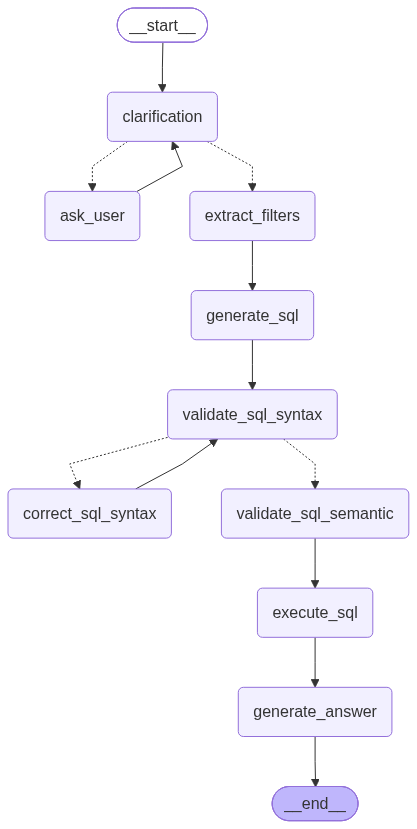
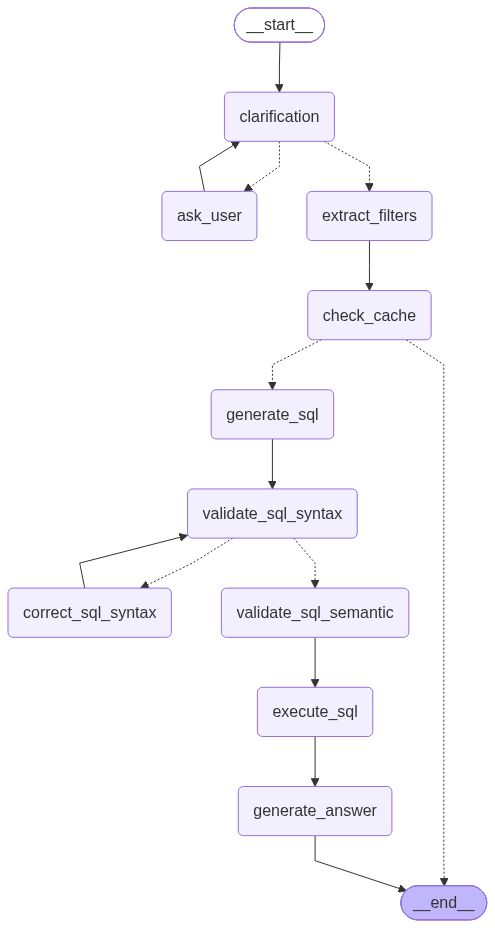
Semantic caching tested

diff --git a/app/main.py b/app/main.py
@@ -1,13 +1,11 @@
 from fastapi import FastAPI, HTTPException
 from pydantic import BaseModel
 from app.graph import graph_view as graph, pool
-from langchain_core.messages import HumanMessage, AIMessage
+from langchain_core.messages import HumanMessage
 from langgraph.types import Command
-from app.services.redis_service import check_semantic_cache, store_semantic_cache
+from app.services.redis_service import store_semantic_cache
 from app.structured_ouput import QueryFilters
 
-
-# schema = get_metadata()
 
 app = FastAPI(
     title="Text-to-SQL API",
@@ -32,14 +30,9 @@ class QueryRequest(BaseModel):
     conversation_id: str
 
 
-
-
 @app.get("/")
 def root():
-    return {
-        "message": "Text-to-SQL API is running"
-    }
-    
+    return {"message": "Text-to-SQL API is running"}
 
 
 def format_graph_output(result, conversation_id: str):
@@ -70,22 +63,23 @@ def format_graph_output(result, conversation_id: str):
     output = dict(result_dict)
     output["conversation_id"] = conversation_id
     output["requires_clarification"] = False
-    return output['answer'] if 'answer' in output else 'No answer generated'
-
+    return output["answer"] if "answer" in output else "No answer generated"
 
 
 @app.post("/query")
 def query_database(request: QueryRequest):
     config = {
-        'configurable': {
-            'thread_id': request.conversation_id
+        "configurable": {
+            "thread_id": request.conversation_id
         }
     }
-    
+
     snapshot = graph.get_state(config)
-    tasks = getattr(snapshot, 'tasks', [])
-    has_interrupt = any(bool(task.interrupts) for task in tasks) or bool(getattr(snapshot, 'interrupts', False))
-    
+    tasks = getattr(snapshot, "tasks", [])
+    has_interrupt = any(bool(task.interrupts) for task in tasks) or bool(
+        getattr(snapshot, "interrupts", False)
+    )
+
     if has_interrupt:
         # ------------------------------------------------------------------ #
         # Resuming after a clarification interrupt                            #
@@ -96,7 +90,7 @@ def query_database(request: QueryRequest):
         else:
             raise HTTPException(
                 status_code=422,
-                detail="Clarification answer required to resume the query."
+                detail="Clarification answer required to resume the query.",
             )
     else:
         # ------------------------------------------------------------------ #
@@ -105,28 +99,14 @@ def query_database(request: QueryRequest):
         if request.clarification_answer:
             raise HTTPException(
                 status_code=409,
-                detail="No pending clarification to resume."
+                detail="No pending clarification to resume.",
             )
         if not request.question:
             raise HTTPException(
                 status_code=400,
-                detail="Question is required for a new query."
+                detail="Question is required for a new query.",
             )
 
-        # --- Semantic cache check (pre-graph) ---
-        # Use the raw question with empty filters for the initial lookup.
-        # The extract_filters node will produce the precise filters later;
-        # here we rely purely on vector similarity + empty-filter match so
-        # only previously-cached identical-intent AND identical-value queries
-        # are served from cache.
-        raw_filters = QueryFilters(resolved_prompt=request.question)
-        cached_answer = check_semantic_cache(request.question, raw_filters)
-
-        if cached_answer:
-            print("[Cache HIT] Returning cached answer without running graph.")
-            return format_graph_output({"answer": cached_answer}, request.conversation_id)
-
-        print("[Cache MISS] Running full graph pipeline.")
         initial_state = {
             "question": request.question,
             "messages": [HumanMessage(content=request.question)],
@@ -145,20 +125,21 @@ def query_database(request: QueryRequest):
             "sql_execution_error": None,
             "answer": "",
             "query_filters": None,
+            "cache_hit": False,
         }
         result = graph.invoke(initial_state, config=config)
 
     # ---------------------------------------------------------------------- #
-    # Store in semantic cache (both fresh and resumed paths land here)        #
+    # Store in semantic cache — only when the graph ran SQL generation        #
+    # (cache_hit=False means a fresh answer was produced, not served from     #
+    # cache). Also skip if graph was interrupted waiting for clarification.   #
     # ---------------------------------------------------------------------- #
     if isinstance(result, dict):
         answer = result.get("answer", "")
         qf: QueryFilters | None = result.get("query_filters")
+        cache_hit: bool = result.get("cache_hit", False)
 
-        # Only cache when we have a real answer and extracted filters.
-        # If the graph was interrupted (clarification pending) qf will be None
-        # and we skip caching until the final answer is produced.
-        if answer and qf:
+        if answer and qf and not cache_hit:
             store_semantic_cache(
                 resolved_prompt=qf.resolved_prompt,
                 answer=answer,
@@ -166,5 +147,6 @@ def query_database(request: QueryRequest):
             )
 
     return format_graph_output(result, request.conversation_id)
+
 
 

diff --git a/app/graph.py b/app/graph.py
@@ -9,6 +9,7 @@ from app.nodes.ask_user_node import ask_user
 from app.nodes.correct_sql_syntax_node import correct_sql_syntax
 from app.nodes.validate_sql_semantic_node import validate_sql_semantic
 from app.nodes.extract_filters_node import extract_query_filters
+from app.nodes.check_cache_node import check_cache_node
 from langgraph.checkpoint.postgres import PostgresSaver
 from psycopg_pool import ConnectionPool
 import os
@@ -25,8 +26,9 @@ graph = StateGraph(state)
 
 graph.add_node("clarification", clarification_node)
 graph.add_node("ask_user", ask_user)
-graph.add_node("extract_filters", extract_query_filters)   # ← NEW
-graph.add_node('generate_answer',generate_answer )
+graph.add_node("extract_filters", extract_query_filters)
+graph.add_node("check_cache", check_cache_node)           # ← NEW
+graph.add_node('generate_answer', generate_answer)
 graph.add_node('generate_sql', generate_sql)
 graph.add_node('validate_sql_syntax', validate_sql_syntax)
 graph.add_node('correct_sql_syntax', correct_sql_syntax)
@@ -37,16 +39,26 @@ graph.add_node('execute_sql', execute_sql)
 graph.add_edge(START, 'clarification')
 graph.add_conditional_edges(
     "clarification",
-    lambda x : "extract_filters" if x.is_clear == True or x.ask_user_count >= 3 else "ask_user",
+    lambda x: "extract_filters" if x.is_clear == True or x.ask_user_count >= 3 else "ask_user",
     {
         "ask_user": "ask_user",
-        "extract_filters": "extract_filters",   # ← was "generate_sql"
+        "extract_filters": "extract_filters",
     }
 )
 graph.add_edge("ask_user", "clarification")
 
-# extract_filters feeds straight into generate_sql
-graph.add_edge("extract_filters", "generate_sql")   # ← NEW
+# extract_filters → check_cache
+graph.add_edge("extract_filters", "check_cache")
+
+# check_cache → END (hit) or generate_sql (miss)
+graph.add_conditional_edges(
+    "check_cache",
+    lambda x: END if x.cache_hit else "generate_sql",
+    {
+        END: END,
+        "generate_sql": "generate_sql",
+    }
+)
 
 graph.add_edge('generate_sql', 'validate_sql_syntax')
 graph.add_conditional_edges(
@@ -75,9 +87,9 @@ checkpointer.setup()
 
 graph_view = graph.compile(checkpointer=checkpointer)
 
-png_data = graph_view.get_graph().draw_mermaid_png()
+# png_data = graph_view.get_graph().draw_mermaid_png()
 
 
-with open("graph.png", "wb") as f:
-    f.write(png_data)
+# with open("graph.png", "wb") as f:
+#     f.write(png_data)
     

diff --git a/app/nodes/check_cache_node.py b/app/nodes/check_cache_node.py
@@ -1,0 +1,36 @@
+from app.state import state
+from app.services.redis_service import check_semantic_cache
+
+
+def check_cache_node(graph_state: state) -> dict:
+    """
+    LangGraph node that runs after extract_filters.
+
+    Uses the fully-resolved prompt and structured filters (already in state)
+    to query the semantic cache.
+
+    State updates returned:
+      • cache_hit = True  + answer = <cached string>  → conditional edge routes to END
+      • cache_hit = False                             → conditional edge routes to generate_sql
+    """
+    qf = graph_state.query_filters
+
+    # Safety: if filters weren't extracted for some reason, treat as a miss.
+    if qf is None:
+        print("[CheckCache] No query_filters in state — treating as cache miss.")
+        return {"cache_hit": False}
+
+    cached_answer = check_semantic_cache(
+        resolved_prompt=qf.resolved_prompt,
+        qf=qf,
+    )
+
+    if cached_answer:
+        print(f"[CheckCache] HIT — returning cached answer.")
+        return {
+            "cache_hit": True,
+            "answer": cached_answer,
+        }
+
+    print("[CheckCache] MISS — proceeding to SQL generation.")
+    return {"cache_hit": False}

diff --git a/app/structured_ouput.py b/app/structured_ouput.py
@@ -6,7 +6,8 @@ class ClarificationResult(BaseModel):
         description="Whether the user's question contains enough information to generate SQL."
     )
     clarification_question: str | None = Field(
-        description="A question to ask the user if the request is unclear."
+        default=None,
+        description="A question to ask the user if the request is unclear. Must be None if is_clear is True."
     )
     reason: str = Field(
         description="Brief explanation of why the question is clear or unclear."
@@ -26,7 +27,10 @@ class semantic_result(BaseModel):
     semantic_error : bool = Field(
         description="Whether there was a semantic error in the SQL query.")
     
-    semantic_error_reason : str | None = Field( description="A brief explanation of the semantic error in the SQL query.")
+    semantic_error_reason : str | None = Field(
+        default=None,
+        description="A brief explanation of the semantic error in the SQL query. Must be None if semantic_error is False."
+    )
 
 
 

diff --git a/app/nodes/extract_filters_node.py b/app/nodes/extract_filters_node.py
@@ -25,12 +25,16 @@ _EXTRACT_PROMPT = ChatPromptTemplate.from_messages([
         (
             "Original question: {question}\n"
             "User clarification (if any): {user_clarification}\n\n"
-            "Extract the filters and write the resolved_prompt."
+            "Extract the filters and write the resolved_prompt. "
+            "Respond with a JSON object with these exact keys: "
+            "\"years\" (list of ints), \"numbers\" (list of floats), "
+            "\"entities\" (list of strings), \"date_ranges\" (list of strings), "
+            "\"resolved_prompt\" (string)."
         ),
     ),
 ])
 
-_extractor = _EXTRACT_PROMPT | llm.with_structured_output(QueryFilters)
+_extractor = _EXTRACT_PROMPT | llm.with_structured_output(QueryFilters, method="json_mode")
 
 
 def extract_query_filters(graph_state: state) -> dict:

diff --git a/app/prompts/clarification.py b/app/prompts/clarification.py
@@ -159,6 +159,12 @@ User's previous clarification:
     MessagesPlaceholder(variable_name="messages"),
     (
         "human",
-        "Based on the conversation and any clarifications provided, evaluate whether the user's intent is clear enough to construct SQL. Return your assessment."
+        (
+            "Based on the conversation and any clarifications provided, evaluate whether the user's intent is clear enough to construct SQL.\n\n"
+            "Respond with a JSON object with these exact keys:\n"
+            "- \"is_clear\": boolean\n"
+            "- \"clarification_question\": string or null\n"
+            "- \"reason\": string"
+        )
     )
 ])

diff --git a/app/services/redis_service.py b/app/services/redis_service.py
@@ -56,10 +56,11 @@ def check_semantic_cache(resolved_prompt: str, qf: QueryFilters) -> str | None:
         # Every filter dimension must match exactly.
         if all(stored.get(k) == v for k, v in expected.items()):
             print(f"[Cache HIT]  distance={hit.get('vector_distance'):.4f}  filters={expected}")
-            return hit["response"]
+            return hit.get('response')
 
     print(f"[Cache MISS] semantic neighbours found but filters did not match. expected={expected}")
     return None
+
 
 
 def store_semantic_cache(resolved_prompt: str, answer: str, qf: QueryFilters) -> None:

diff --git a/app/state.py b/app/state.py
@@ -36,5 +36,9 @@ class state(BaseModel):
     answer: str = ""
 
     # Populated by extract_filters_node after clarification is resolved.
-    # Used by the semantic cache store/check in main.py.
+    # Used by check_cache_node for lookup and by main.py for storing.
     query_filters: Optional[QueryFilters] = None
+
+    # Set by check_cache_node. True = answer already populated from cache,
+    # graph should jump to END. False = proceed to generate_sql.
+    cache_hit: bool = False

diff --git a/app/nodes/clarification_node.py b/app/nodes/clarification_node.py
@@ -12,7 +12,7 @@ def clarification_node(graph_state: state) -> str:
     messages = graph_state.messages
     question = graph_state.question
         
-    structured_llm = llm.with_structured_output(ClarificationResult)
+    structured_llm = llm.with_structured_output(ClarificationResult, method="json_mode")
     
     clarification_chain = clarification_prompt | structured_llm 
     
